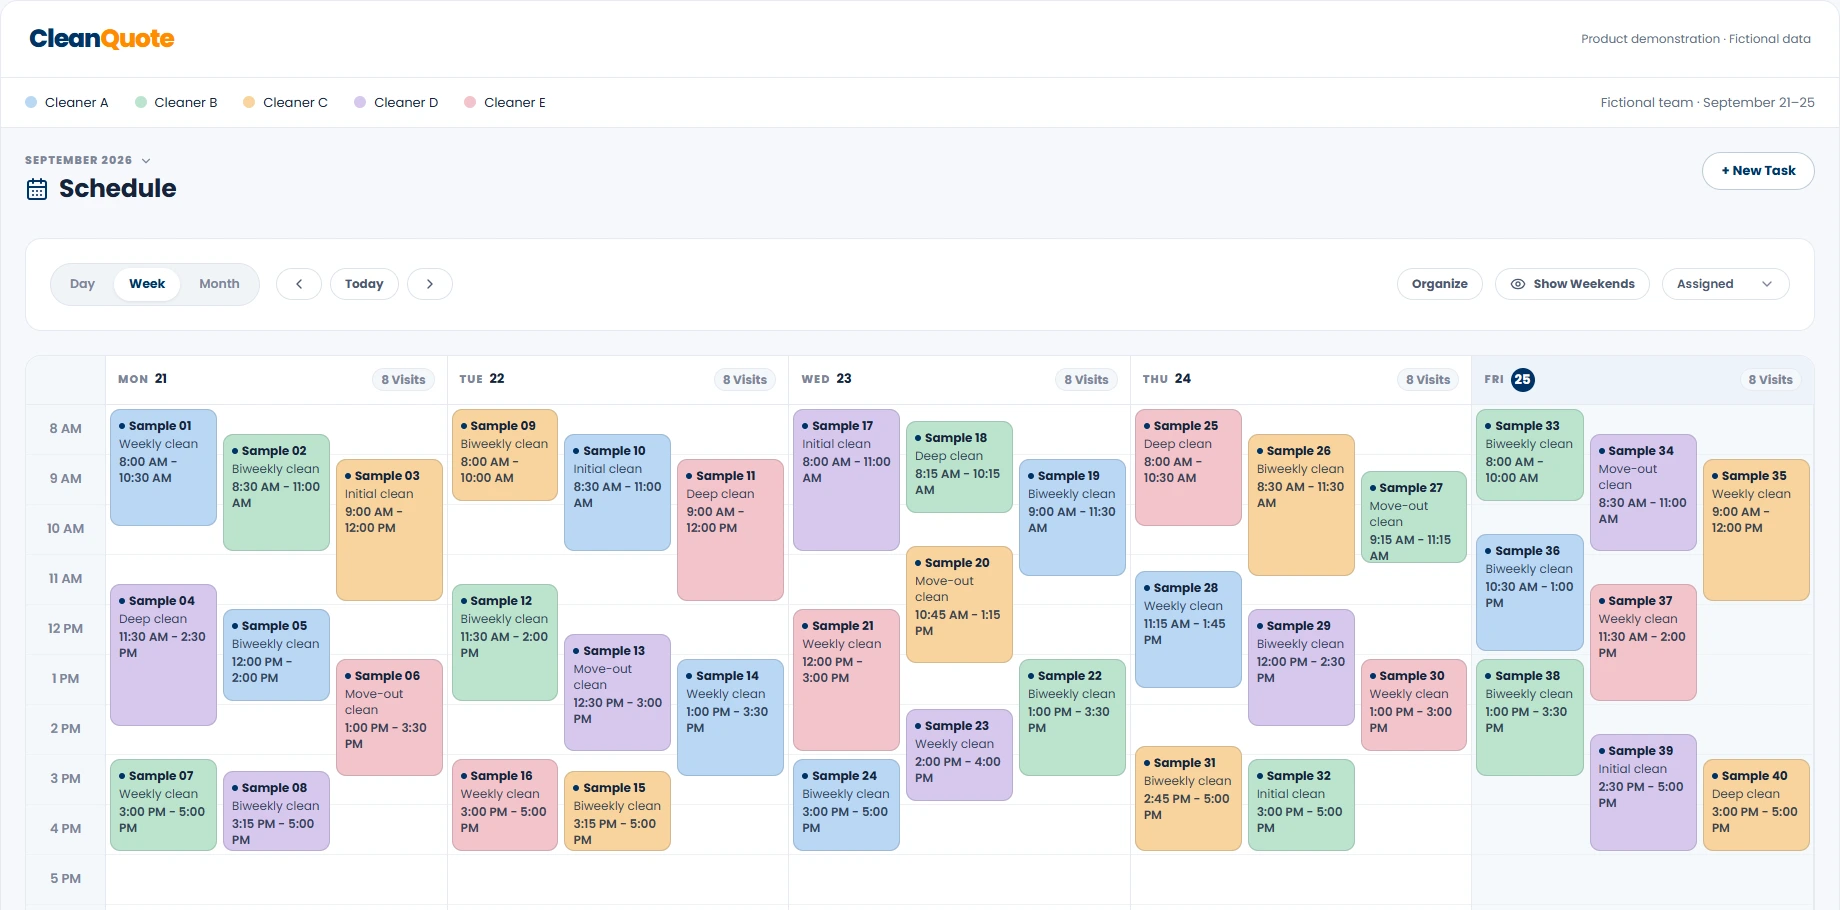
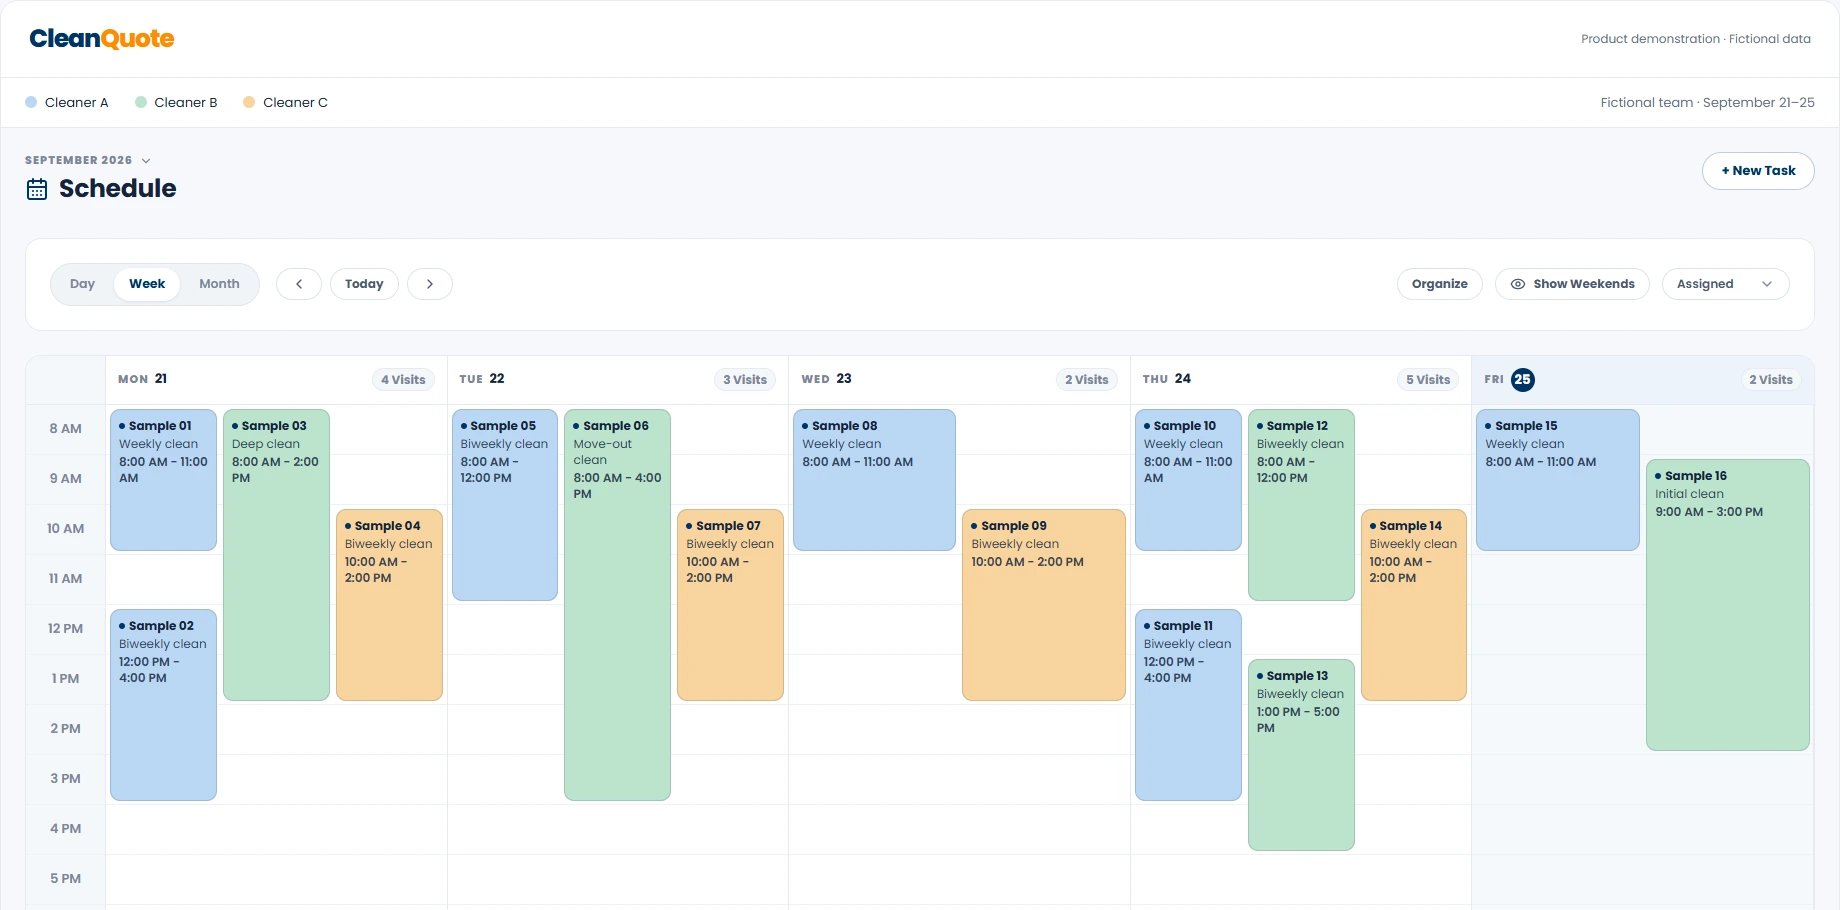
Show a realistic three-cleaner workweek in homepage calendar (#14)

diff --git a/scripts/product-captures/desktop-schedule-data.js b/scripts/product-captures/desktop-schedule-data.js
@@ -3,8 +3,6 @@ export const crew = [
   ["a", "Cleaner A", "#b9d7f4"],
   ["b", "Cleaner B", "#bce4cd"],
   ["c", "Cleaner C", "#f8d49d"],
-  ["d", "Cleaner D", "#d7c8ee"],
-  ["e", "Cleaner E", "#f3c4ca"],
 ].map(([id, name, color]) => ({
   id: `demo-${id}`,
   profile_first_name: name,
@@ -12,85 +10,63 @@ export const crew = [
   profile_color: color,
   account_type: "child_user",
 }));
+
+// Longer cleans, room between stops, and deliberately uneven daily workloads.
 const week = [
   [
-    ["a", "08:00", "10:30"],
-    ["b", "08:30", "11:00"],
-    ["c", "09:00", "12:00"],
-    ["d", "11:30", "14:30"],
-    ["a", "12:00", "14:00"],
-    ["e", "13:00", "15:30"],
-    ["b", "15:00", "17:00"],
-    ["d", "15:15", "17:00"],
+    ["a", "08:00", "11:00", "Weekly clean"],
+    ["a", "12:00", "16:00", "Biweekly clean"],
+    ["b", "08:00", "14:00", "Deep clean"],
+    ["c", "10:00", "14:00", "Biweekly clean"],
   ],
   [
-    ["c", "08:00", "10:00"],
-    ["a", "08:30", "11:00"],
-    ["e", "09:00", "12:00"],
-    ["b", "11:30", "14:00"],
-    ["d", "12:30", "15:00"],
-    ["a", "13:00", "15:30"],
-    ["c", "15:15", "17:00"],
-    ["e", "15:00", "17:00"],
+    ["a", "08:00", "12:00", "Biweekly clean"],
+    ["b", "08:00", "16:00", "Move-out clean"],
+    ["c", "10:00", "14:00", "Biweekly clean"],
   ],
   [
-    ["d", "08:00", "11:00"],
-    ["b", "08:15", "10:15"],
-    ["a", "09:00", "11:30"],
-    ["c", "10:45", "13:15"],
-    ["e", "12:00", "15:00"],
-    ["b", "13:00", "15:30"],
-    ["d", "14:00", "16:00"],
-    ["a", "15:00", "17:00"],
+    ["a", "08:00", "11:00", "Weekly clean"],
+    ["c", "10:00", "14:00", "Biweekly clean"],
   ],
   [
-    ["e", "08:00", "10:30"],
-    ["c", "08:30", "11:30"],
-    ["b", "09:15", "11:15"],
-    ["a", "11:15", "13:45"],
-    ["d", "12:00", "14:30"],
-    ["e", "13:00", "15:00"],
-    ["c", "14:45", "17:00"],
-    ["b", "15:00", "17:00"],
+    ["a", "08:00", "11:00", "Weekly clean"],
+    ["a", "12:00", "16:00", "Biweekly clean"],
+    ["b", "08:00", "12:00", "Biweekly clean"],
+    ["b", "13:00", "17:00", "Biweekly clean"],
+    ["c", "10:00", "14:00", "Biweekly clean"],
   ],
   [
-    ["b", "08:00", "10:00"],
-    ["d", "08:30", "11:00"],
-    ["c", "09:00", "12:00"],
-    ["a", "10:30", "13:00"],
-    ["e", "11:30", "14:00"],
-    ["b", "13:00", "15:30"],
-    ["d", "14:30", "17:00"],
-    ["c", "15:00", "17:00"],
+    ["a", "08:00", "11:00", "Weekly clean"],
+    ["b", "09:00", "15:00", "Initial clean"],
   ],
 ];
 const minutes = (t) => Number(t.slice(0, 2)) * 60 + Number(t.slice(3));
-const types = [
-  "Weekly clean",
-  "Biweekly clean",
-  "Initial clean",
-  "Deep clean",
-  "Biweekly clean",
-  "Move-out clean",
-  "Weekly clean",
-  "Biweekly clean",
-];
-export const scheduleVisits = week.flatMap((day, d) =>
-  day.map(([person, start, end], i) => ({
+const entries = week.flatMap((day, d) =>
+  day.map(([person, start, end, title], i) => ({
+    person,
+    start,
+    end,
+    title,
+    d,
+    i,
+  })),
+);
+export const scheduleVisits = entries.map(
+  ({ person, start, end, d, i }, index) => ({
     id: `demo-visit-${d}-${i}`,
     job_id: `demo-job-${d}-${i}`,
     business_id: "demo-business",
     location_id: "demo-location",
-    customer_name: `Sample ${String(d * 8 + i + 1).padStart(2, "0")}`,
+    customer_name: `Sample ${String(index + 1).padStart(2, "0")}`,
     scheduled_date: `2026-09-${21 + d}`,
     scheduled_time: start,
     end_time: end,
     estimated_hours: (minutes(end) - minutes(start)) / 60,
     status: "scheduled",
     assigned_user_ids: [`demo-${person}`],
-  })),
+  }),
 );
 export const scheduleJobs = scheduleVisits.map((visit, i) => ({
   id: visit.job_id,
-  title: types[(i + Math.floor(i / 8)) % types.length],
+  title: entries[i].title,
 }));

diff --git a/scripts/product-captures/README.md b/scripts/product-captures/README.md
@@ -9,7 +9,7 @@ These assets are browser screenshots of actual CleanQuote React components rende
 | demo-customer-quote / demo-customer-quote-full | QuoteView.jsx | Reliable Housekeeping branding, fictional customer, initial and biweekly calculated prices |
 | demo-booking | QuoteBookingSection | Fictional date and arrival selection |
 | demo-organizer | ScheduleOrganizerModal | Proposed assignments for Sample homes A–C |
-| demo-schedule | Full Schedule.jsx desktop page, ScheduleControls and WeekView | Forty fictional visits, five cleaners, September 21–25, 8 AM–5 PM |
+| demo-schedule | Full Schedule.jsx desktop page, ScheduleControls and WeekView | Sixteen fictional visits, three cleaners, September 21–25, 8 AM–5 PM |
 | demo-timesheets | TimesheetSettingsTab | Fictional pay-period and break settings |
 | demo-automations | AutomationRuleCard | Fictional lifecycle rules; no messages sent |
 
@@ -33,6 +33,6 @@ Original browser viewport: 1280 × 720; full-page captures with a scrollbar are 
 
 ## Desktop calendar capture
 
-The calendar uses the full unmodified Schedule.jsx page, with offline visit/job/roster responses in desktop-schedule-data.js. View-only modal dependencies are disabled. The capture shell adds a five-person color legend and an explicit fictional-data label. No customer or employee records are read or changed.
+The calendar uses the full unmodified Schedule.jsx page, with offline visit/job/roster responses in desktop-schedule-data.js. View-only modal dependencies are disabled. The capture shell adds a three-person color legend and an explicit fictional-data label. No customer or employee records are read or changed.
 
-Use a 1920 × 1000 desktop viewport, select Week and Hide Weekends, and use the date picker to select September 21–25, 2026 if needed. Scroll the calendar to 8 AM. Capture the top 1910 × 930 pixels as `.captures/desktop-schedule-full.png`, then run `node scripts/finish-desktop-calendar.mjs`. This replaces the previous stripped-down, ten-visit calendar image. The generated asset is 1840 × 910. All forty jobs finish by 5 PM; no cleaner is double-booked.
+Use a 1920 × 1000 desktop viewport, select Week and Hide Weekends, and use the date picker to select September 21–25, 2026 if needed. Scroll the calendar to 8 AM. Capture the top 1910 × 930 pixels as `.captures/desktop-schedule-full.png`, then run `node scripts/finish-desktop-calendar.mjs`. This replaces the previous stripped-down, ten-visit calendar image. The generated asset is 1840 × 910. All sixteen jobs finish by 5 PM; no cleaner is double-booked. Daily visit counts are 4, 3, 2, 5 and 2. Cleans last 3–8 hours; repeat stops for the same cleaner have a one-hour gap. Colors consistently identify the three cleaners.

diff --git a/docs/notes/homepage-implementation-2026-09-25.md b/docs/notes/homepage-implementation-2026-09-25.md
@@ -54,3 +54,9 @@ The expanded homepage preserves the original booking, calculator, operations, pa
 - Calendar capture includes the Week selection, date header, Organize/Assigned controls, weekday headers, color legend and the complete working day. Source remains ccbd42e; no app source or live records changed.
 - Payroll heading now reads “Track with Timesheets. Run Payroll.” Plan names are Solo, Team, Enterprise, without an extra Team subtitle. Added a verified 64px white gap above the orange Communications Hub card.
 - Validation: production build, local reference audit, desktop and mobile layout inspection, asset privacy review, workday and assignment checks.
+
+## Realistic weekly calendar refinement
+- Replaced the crowded forty-visit example with sixteen fictional jobs and three consistent cleaner colors. Monday through Friday have 4, 3, 2, 5 and 2 jobs respectively.
+- Jobs run for 3–8 hours. The busiest days include one cleaner working 8–11 AM and noon–4 PM, another on longer deep/initial cleans, and a third working 10 AM–2 PM. Multiple stops for the same cleaner have an hour between jobs.
+- Captured the actual unmodified desktop Schedule.jsx page again using the existing isolated fixture. No real customer or employee data, live records, or app code changed. Homepage changes are limited to the calendar asset and its alternative text.
+- Validated all jobs stay within 8 AM–5 PM and no cleaner has overlapping assignments. Visually reviewed the new desktop capture.
